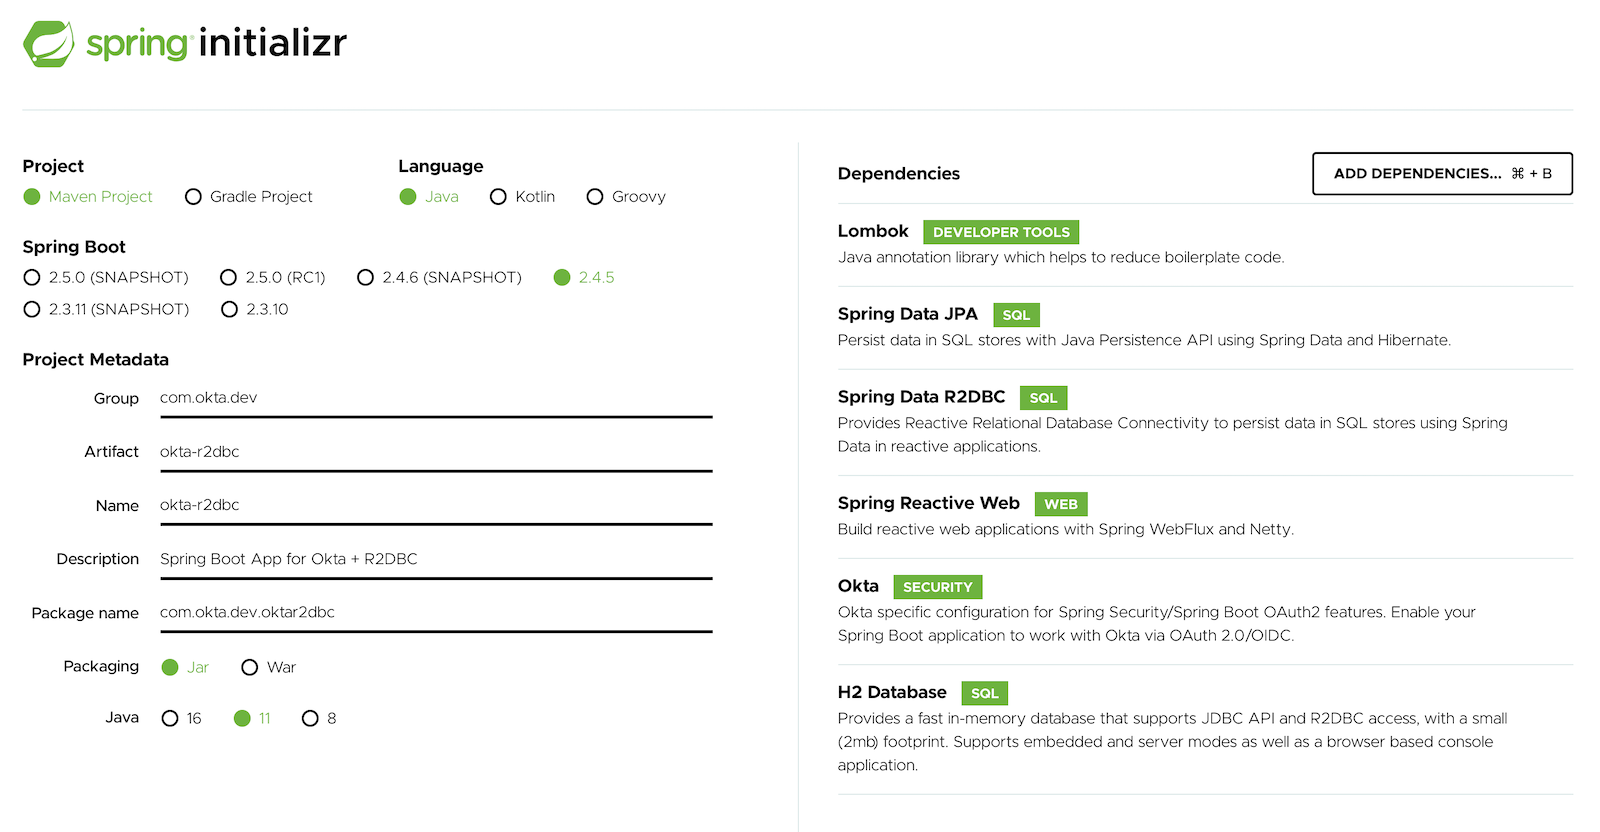
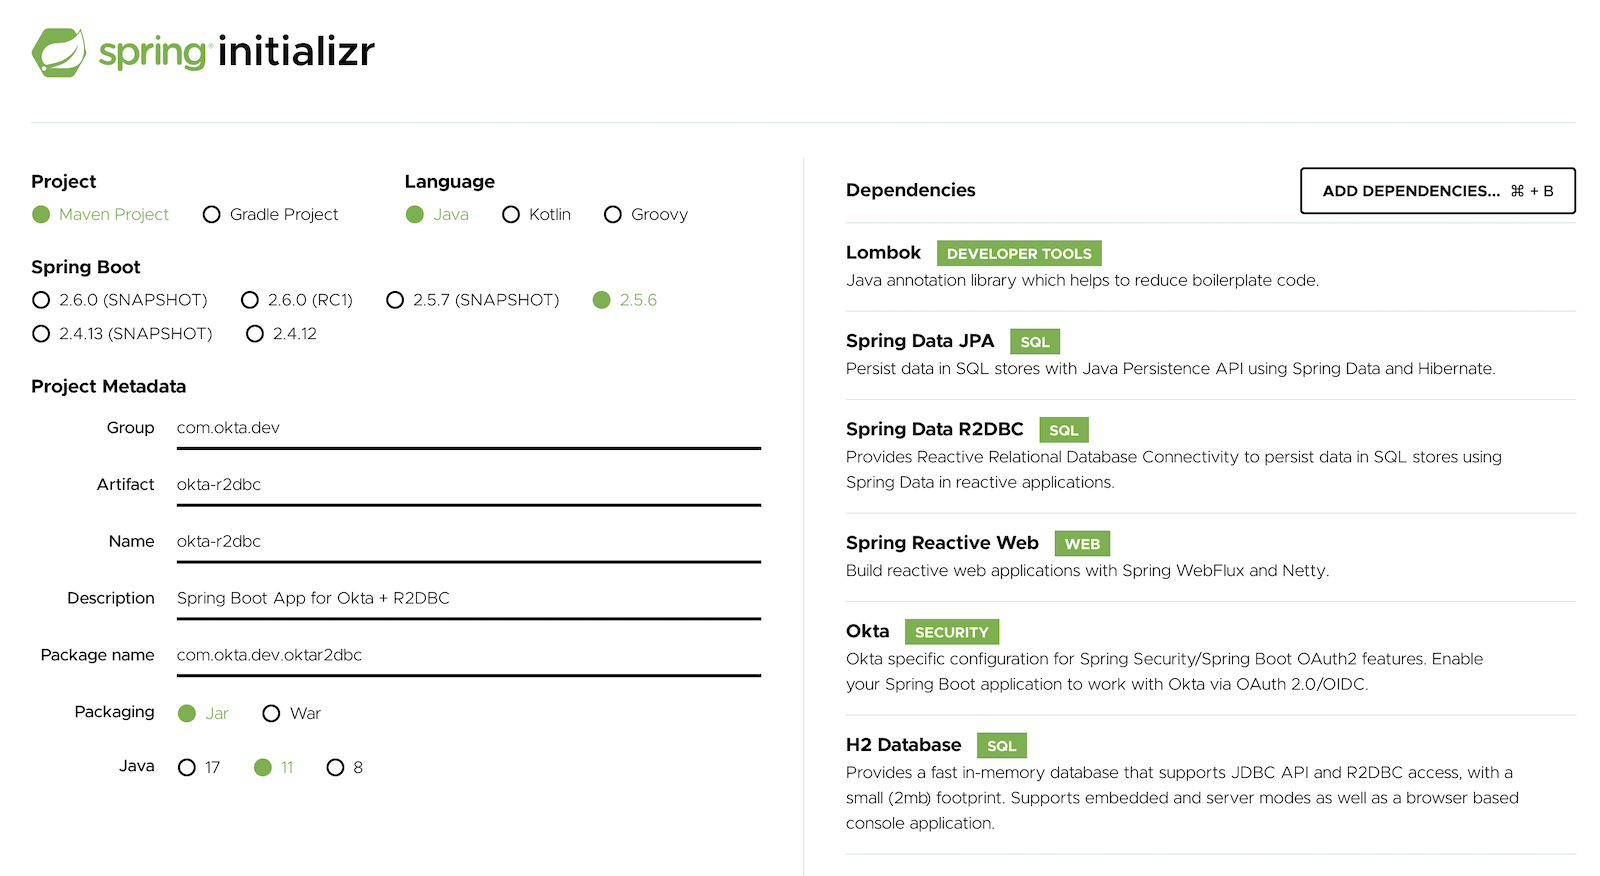
Update R2DBC post to use Spring Boot 2.5.6

diff --git a/_source/_posts/2021-05-12-spring-boot-r2dbc.md b/_source/_posts/2021-05-12-spring-boot-r2dbc.md
@@ -12,6 +12,9 @@ tweets:
 - "R2DBC + Spring Boot makes it so you can connect to your SQL databases without blocking. Try it today!"
 image: blog/spring-boot-r2dbc/r2dbc-spring-boot.png
 type: conversion
+github: https://github.com/oktadev/okta-spring-boot-r2dbc-example
+changelog:
+- 2021-10-26: Updated to use Spring Boot 2.5.6. You can view the changes in this post in [okta-blog#333](); example app changes are in [okta-spring-boot-r2dbc-example#3](https://github.com/oktadev/okta-spring-boot-r2dbc-example/pull/3).
 ---
 
 Reactive APIs are a powerful way to handle and serve large amounts of data and large numbers of requests in a web application. They rely on a "server-side event" model in which the client (e.g. your browser) subscribes to "events" on the server, and the server "pushes" events to the client as they become available.
@@ -39,11 +42,11 @@ Let's get started!
 
 ## Create a Spring Boot Project with R2DBC
 
-Click [this link](https://start.spring.io/#!type=maven-project&language=java&platformVersion=2.4.5.RELEASE&packaging=jar&jvmVersion=11&groupId=com.okta.dev&artifactId=okta-r2dbc&name=okta-r2dbc&description=Spring%20Boot%20App%20for%20Okta%20%2B%20R2DBC&packageName=com.okta.dev.oktar2dbc&dependencies=lombok,data-jpa,data-r2dbc,webflux,okta,h2) or go to [start.spring.io](https://start.spring.io) and select the following options in your browser:
+Click [this link](https://start.spring.io/#!type=maven-project&language=java&platformVersion=2.5.6&packaging=jar&jvmVersion=11&groupId=com.okta.dev&artifactId=okta-r2dbc&name=okta-r2dbc&description=Spring%20Boot%20App%20for%20Okta%20%2B%20R2DBC&packageName=com.okta.dev.oktar2dbc&dependencies=lombok,data-jpa,data-r2dbc,webflux,okta,h2) or go to [start.spring.io](https://start.spring.io) and select the following options in your browser:
 
 - **Project**: `Maven Project`
 - **Language**: `Java`
-- **Spring Boot**: `2.4.5`
+- **Spring Boot**: `2.5.6`
 
 Under **Project Metadata**, set the values to the following:
 
@@ -371,32 +374,7 @@ CREATE TABLE USER_ENTITY
 );
 ```
 
-Next, add a `@Bean` which will automatically detect and execute this script on startup. Open your main application class at `com.okta.dev.oktar2dbc.OktaR2dbcApplication` and add a `ConnectionFactoryInitializer` bean:
-
-```java
-package com.okta.dev.oktar2dbc;
-
-// imports omitted
-
-@EnableWebFlux
-@EnableR2dbcRepositories
-@SpringBootApplication
-public class OktaR2dbcApplication {
-    public static void main(String[] args) {
-        SpringApplication.run(OktaR2dbcApplication.class, args);
-    }
-
-    @Bean // added
-    public ConnectionFactoryInitializer connectionFactoryInitializer(ConnectionFactory connectionFactory) {
-        ConnectionFactoryInitializer initializer = new ConnectionFactoryInitializer();
-        initializer.setConnectionFactory(connectionFactory);
-        initializer.setDatabasePopulator(new ResourceDatabasePopulator(new ClassPathResource("schema.sql")));
-        return initializer;
-    }
-}
-```
-
-`initializer.setDatabasePopulator()` will pick up the `schema.sql` file and execute it to create the `user_entity` table on startup.
+Spring Boot will automatically detect the `schema.sql` file and execute it to create the `user_entity` table on startup.
 
 Open your command line tool and run the application:
 
@@ -523,13 +501,7 @@ To enable scheduling, you must also add the `@EnableScheduling` annotation to a 
 @EnableWebFlux
 @EnableR2dbcRepositories
 @SpringBootApplication
-public class OktaR2dbcApplication {
-    public static void main(String[] args) {
-        SpringApplication.run(OktaR2dbcApplication.class, args);
-    }
-
-    // other code omitted
-}
+public class OktaR2dbcApplication { ... }
 ```
 
 Open your application router at `com.okta.dev.oktar2dbc.ApplicationRouter` and modify the `route()` method to add a routing for `/heartbeats`:
